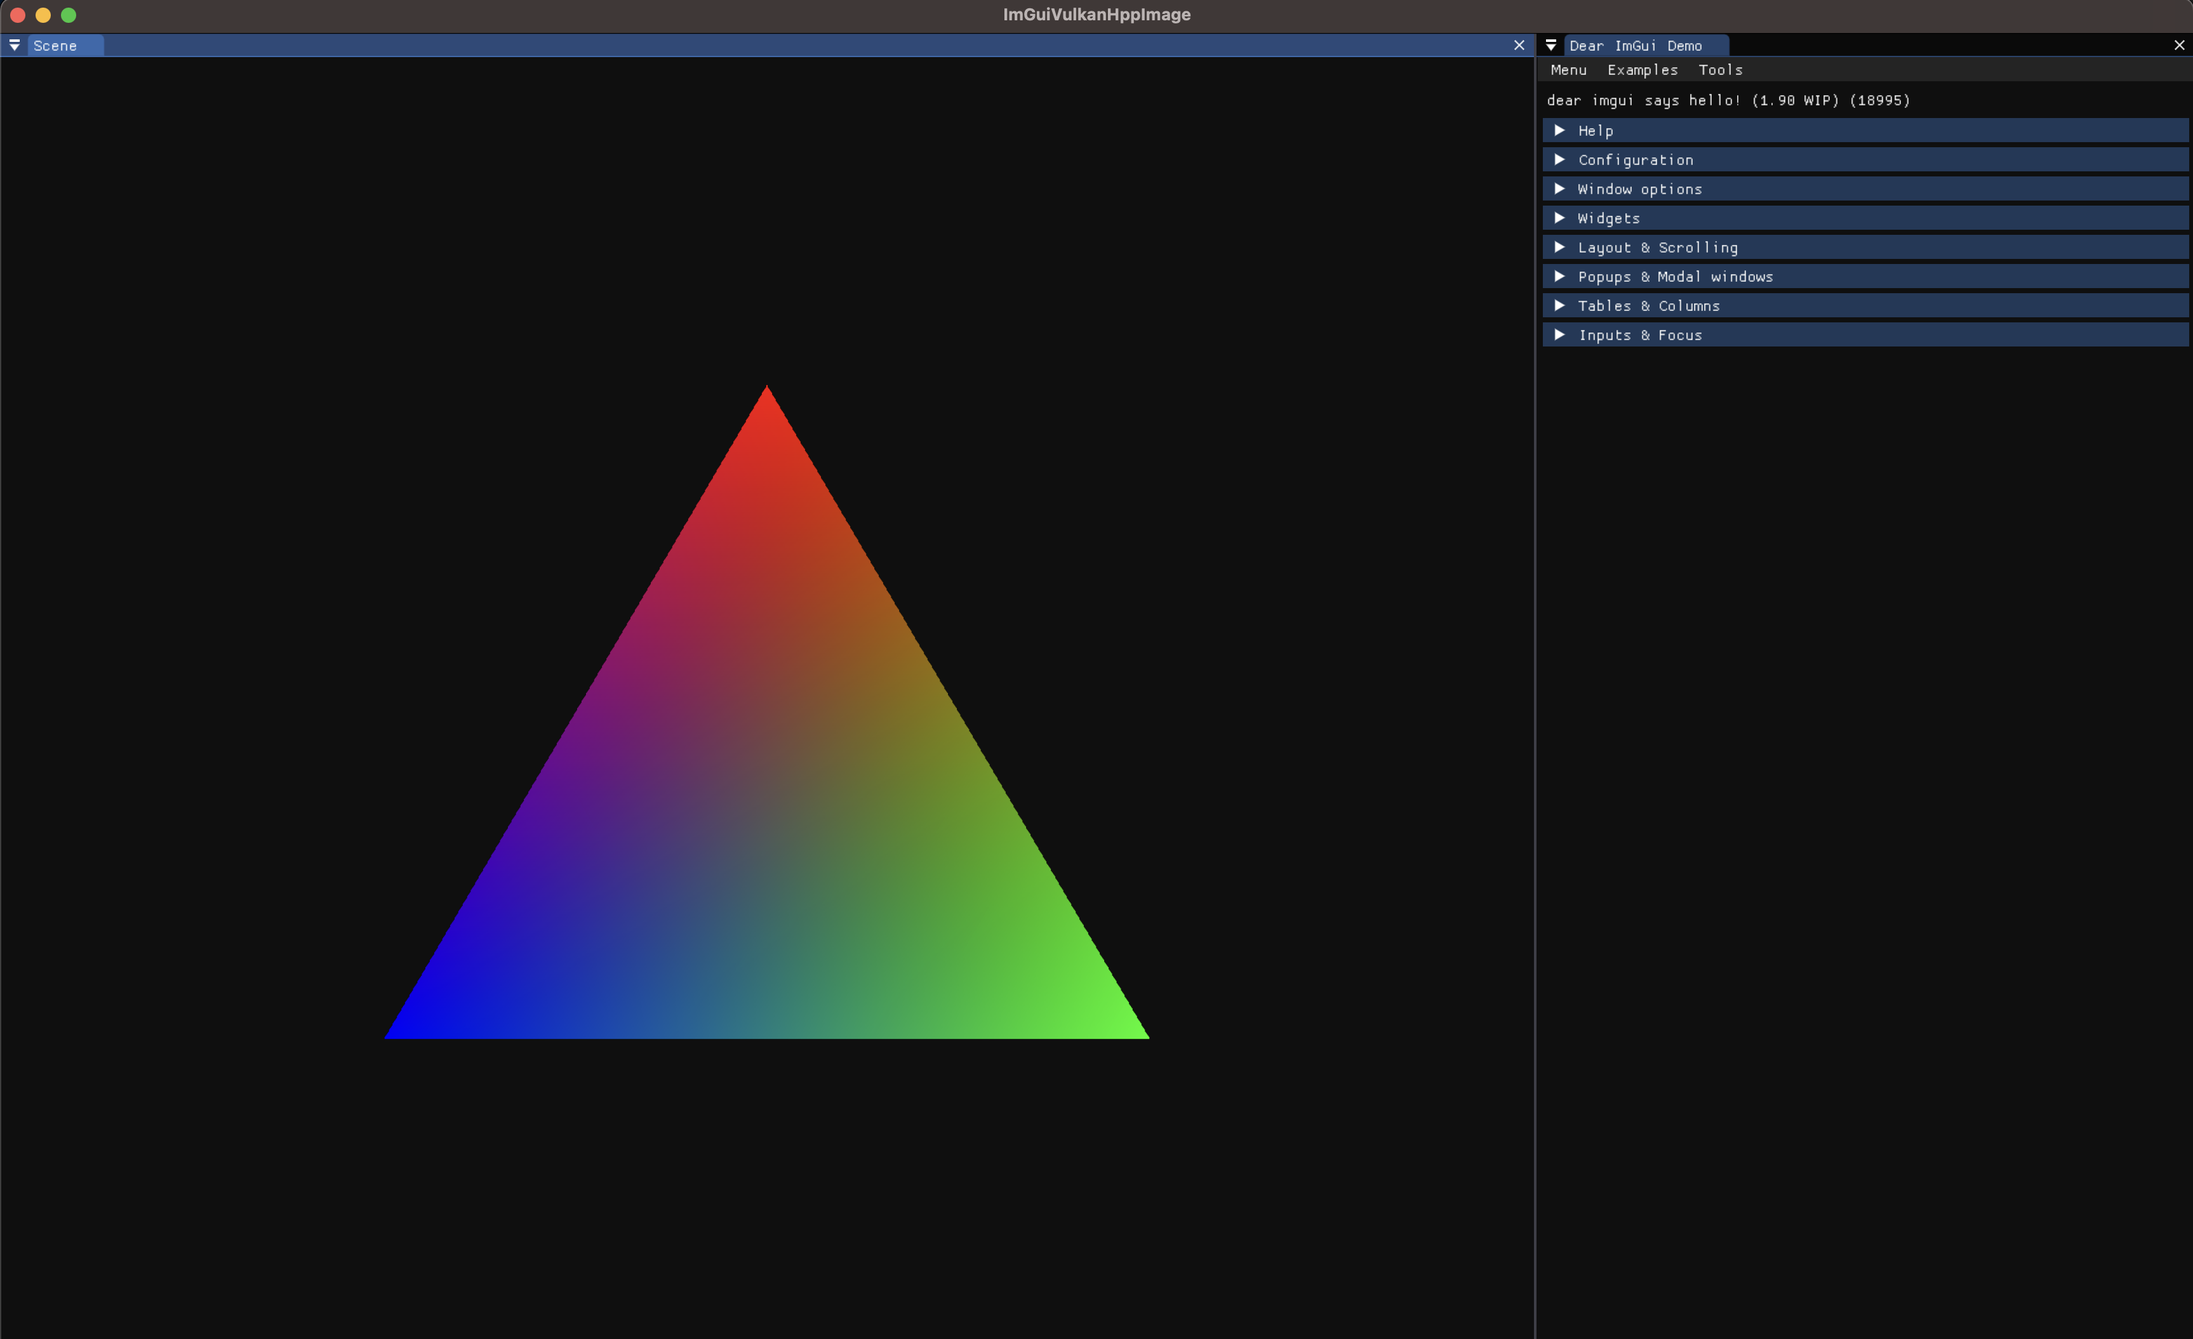
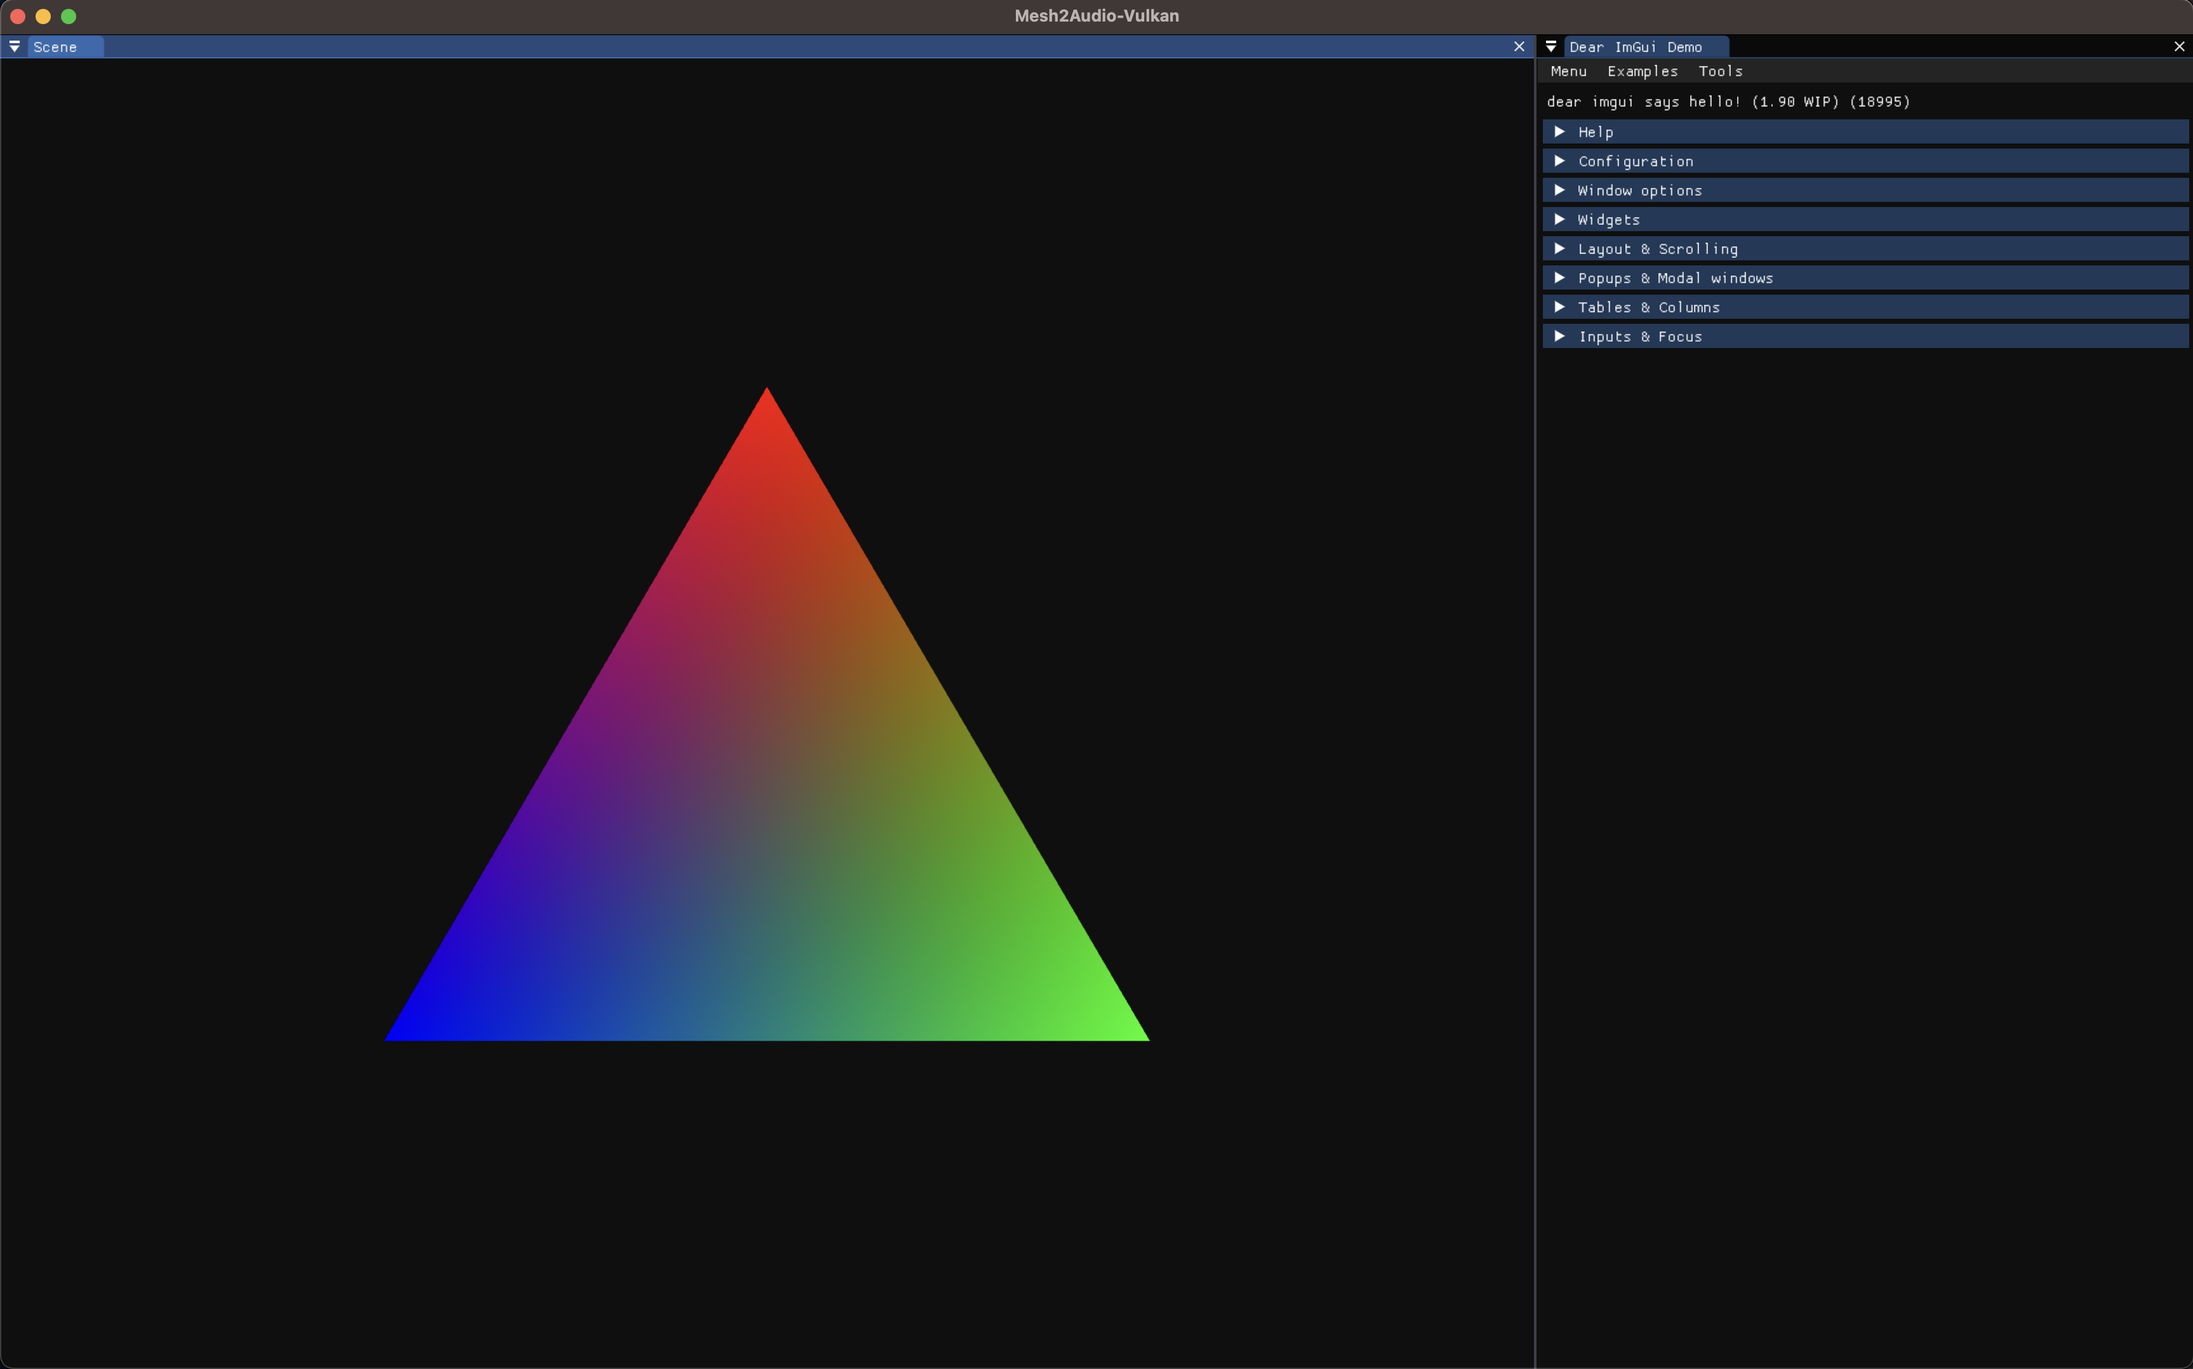
Apply MSAA to scene image.

diff --git a/src/Scene.cpp b/src/Scene.cpp
@@ -2,54 +2,67 @@
 
 #include <shaderc/shaderc.hpp>
 
+static const std::string TriangleVertShader = R"vertexshader(
+#version 450
+#extension GL_ARB_separate_shader_objects : enable
+
+out gl_PerVertex {
+    vec4 gl_Position;
+};
+
+layout(location = 0) out vec3 fragColor;
+
+vec2 positions[3] = vec2[](
+    vec2(0.0, -0.5),
+    vec2(0.5, 0.5),
+    vec2(-0.5, 0.5)
+);
+vec3 colors[3] = vec3[](
+    vec3(1.0, 0.0, 0.0),
+    vec3(0.0, 1.0, 0.0),
+    vec3(0.0, 0.0, 1.0)
+);
+
+void main() {
+    gl_Position = vec4(positions[gl_VertexIndex], 0.0, 1.0);
+    fragColor = colors[gl_VertexIndex];
+}
+)vertexshader";
+
+static const std::string TriangleFragShader = R"frag_shader(
+#version 450
+#extension GL_ARB_separate_shader_objects : enable
+
+layout(location = 0) in vec3 fragColor;
+
+layout(location = 0) out vec4 outColor;
+
+void main() {
+    outColor = vec4(fragColor, 1.0);
+}
+)frag_shader";
+
+vk::SampleCountFlagBits GetMaxUsableSampleCount(const vk::PhysicalDevice physical_device) {
+    const auto props = physical_device.getProperties();
+    const auto counts = props.limits.framebufferColorSampleCounts & props.limits.framebufferDepthSampleCounts;
+    if (counts & vk::SampleCountFlagBits::e64) return vk::SampleCountFlagBits::e64;
+    if (counts & vk::SampleCountFlagBits::e32) return vk::SampleCountFlagBits::e32;
+    if (counts & vk::SampleCountFlagBits::e16) return vk::SampleCountFlagBits::e16;
+    if (counts & vk::SampleCountFlagBits::e8) return vk::SampleCountFlagBits::e8;
+    if (counts & vk::SampleCountFlagBits::e4) return vk::SampleCountFlagBits::e4;
+    if (counts & vk::SampleCountFlagBits::e2) return vk::SampleCountFlagBits::e2;
+
+    return vk::SampleCountFlagBits::e1;
+}
+
 Scene::Scene(const VulkanContext &vc, uint width, uint height) : VC(vc) {
     TC.Extent = vk::Extent2D{width, height};
-
-    static const std::string vert_shader = R"vertexshader(
-        #version 450
-        #extension GL_ARB_separate_shader_objects : enable
-
-        out gl_PerVertex {
-            vec4 gl_Position;
-        };
-
-        layout(location = 0) out vec3 fragColor;
-
-        vec2 positions[3] = vec2[](
-            vec2(0.0, -0.5),
-            vec2(0.5, 0.5),
-            vec2(-0.5, 0.5)
-        );
-        vec3 colors[3] = vec3[](
-            vec3(1.0, 0.0, 0.0),
-            vec3(0.0, 1.0, 0.0),
-            vec3(0.0, 0.0, 1.0)
-        );
-
-        void main() {
-            gl_Position = vec4(positions[gl_VertexIndex], 0.0, 1.0);
-            fragColor = colors[gl_VertexIndex];
-        }
-        )vertexshader";
-
-    static const std::string frag_shader = R"frag_shader(
-        #version 450
-        #extension GL_ARB_separate_shader_objects : enable
-
-        layout(location = 0) in vec3 fragColor;
-
-        layout(location = 0) out vec4 outColor;
-
-        void main() {
-            outColor = vec4(fragColor, 1.0);
-        }
-        )frag_shader";
 
     shaderc::CompileOptions options;
     options.SetOptimizationLevel(shaderc_optimization_level_performance);
 
     shaderc::Compiler compiler;
-    const auto vert_shader_module = compiler.CompileGlslToSpv(vert_shader, shaderc_glsl_vertex_shader, "vertex shader", options);
+    const auto vert_shader_module = compiler.CompileGlslToSpv(TriangleVertShader, shaderc_glsl_vertex_shader, "vertex shader", options);
     if (vert_shader_module.GetCompilationStatus() != shaderc_compilation_status_success) {
         throw std::runtime_error(std::format("Failed to compile vertex shader: {}", vert_shader_module.GetErrorMessage()));
     }
@@ -58,7 +71,7 @@ Scene::Scene(const VulkanContext &vc, uint width, uint height) : VC(vc) {
     const vk::ShaderModuleCreateInfo vert_shader_info{{}, vert_size * sizeof(uint), vert_shader_code.data()};
     TC.VertexShaderModule = VC.Device->createShaderModuleUnique(vert_shader_info);
 
-    const auto frag_shader_module = compiler.CompileGlslToSpv(frag_shader, shaderc_glsl_fragment_shader, "fragment shader", options);
+    const auto frag_shader_module = compiler.CompileGlslToSpv(TriangleFragShader, shaderc_glsl_fragment_shader, "fragment shader", options);
     if (frag_shader_module.GetCompilationStatus() != shaderc_compilation_status_success) {
         throw std::runtime_error(std::format("Failed to compile fragment shader: {}", frag_shader_module.GetErrorMessage()));
     }
@@ -73,7 +86,7 @@ Scene::Scene(const VulkanContext &vc, uint width, uint height) : VC(vc) {
 
     const vk::PipelineVertexInputStateCreateInfo vertex_input_info{{}, 0u, nullptr, 0u, nullptr};
     const vk::PipelineInputAssemblyStateCreateInfo input_assemply{{}, vk::PrimitiveTopology::eTriangleList, false};
-    const vk::Viewport viewport{0.0f, 0.0f, static_cast<float>(width), static_cast<float>(height), 0.0f, 1.0f};
+    const vk::Viewport viewport{0.f, 0.f, float(width), float(height), 0.f, 1.f};
     const vk::Rect2D scissor{{0, 0}, TC.Extent};
     const vk::PipelineViewportStateCreateInfo viewport_state{{}, 1, &viewport, 1, &scissor};
 
@@ -92,10 +105,12 @@ Scene::Scene(const VulkanContext &vc, uint width, uint height) : VC(vc) {
     TC.PipelineLayout = VC.Device->createPipelineLayoutUnique({}, nullptr);
 
     const auto format = vk::Format::eB8G8R8A8Unorm;
+    // Render multisampled into the offscreen image, then resolve into a single-sampled resolve image.
+    const auto msaa_samples = GetMaxUsableSampleCount(VC.PhysicalDevice);
     const vk::AttachmentDescription color_attachment{
         {},
         format,
-        vk::SampleCountFlagBits::e1,
+        msaa_samples,
         vk::AttachmentLoadOp::eClear,
         vk::AttachmentStoreOp::eStore,
         {},
@@ -103,7 +118,32 @@ Scene::Scene(const VulkanContext &vc, uint width, uint height) : VC(vc) {
         vk::ImageLayout::eUndefined,
         vk::ImageLayout::eShaderReadOnlyOptimal};
     const vk::AttachmentReference color_attachment_ref{0, vk::ImageLayout::eColorAttachmentOptimal};
-    const vk::PipelineMultisampleStateCreateInfo multisampling{{}, vk::SampleCountFlagBits::e1, false, 1.0};
+
+    const vk::AttachmentDescription resolve_attachment{
+        {},
+        format,
+        vk::SampleCountFlagBits::e1, // Single-sampled resolve.
+        {},
+        vk::AttachmentStoreOp::eStore,
+        {},
+        {},
+        vk::ImageLayout::eColorAttachmentOptimal,
+        vk::ImageLayout::eShaderReadOnlyOptimal};
+    const vk::AttachmentReference resolve_attachment_ref{1, vk::ImageLayout::eColorAttachmentOptimal};
+
+    const vk::SubpassDescription subpass{{}, vk::PipelineBindPoint::eGraphics, 0, nullptr, 1, &color_attachment_ref, &resolve_attachment_ref};
+    const vk::SubpassDependency subpass_dependency{
+        VK_SUBPASS_EXTERNAL,
+        0,
+        vk::PipelineStageFlagBits::eColorAttachmentOutput,
+        vk::PipelineStageFlagBits::eColorAttachmentOutput,
+        {},
+        vk::AccessFlagBits::eColorAttachmentRead | vk::AccessFlagBits::eColorAttachmentWrite};
+
+    const std::array attachments{color_attachment, resolve_attachment};
+    TC.RenderPass = VC.Device->createRenderPassUnique({{}, uint(attachments.size()), attachments.data(), 1, &subpass, 1, &subpass_dependency});
+
+    const vk::PipelineMultisampleStateCreateInfo multisampling{{}, msaa_samples, false};
     const vk::PipelineColorBlendAttachmentState color_blend_attachment{
         {},
         /*srcCol*/ vk::BlendFactor::eOne,
@@ -114,43 +154,58 @@ Scene::Scene(const VulkanContext &vc, uint width, uint height) : VC(vc) {
         /*alphaBlend*/ vk::BlendOp::eAdd,
         vk::ColorComponentFlagBits::eR | vk::ColorComponentFlagBits::eG | vk::ColorComponentFlagBits::eB | vk::ColorComponentFlagBits::eA};
     const vk::PipelineColorBlendStateCreateInfo color_blending{{}, false, vk::LogicOp::eCopy, 1, &color_blend_attachment};
-    const vk::SubpassDescription subpass{{}, vk::PipelineBindPoint::eGraphics, 0, nullptr, 1, &color_attachment_ref};
-    const vk::SubpassDependency subpass_dependency{VK_SUBPASS_EXTERNAL, 0, vk::PipelineStageFlagBits::eColorAttachmentOutput, vk::PipelineStageFlagBits::eColorAttachmentOutput, {}, vk::AccessFlagBits::eColorAttachmentRead | vk::AccessFlagBits::eColorAttachmentWrite};
-    TC.RenderPass = VC.Device->createRenderPassUnique(vk::RenderPassCreateInfo{{}, 1, &color_attachment, 1, &subpass, 1, &subpass_dependency});
-
     const vk::GraphicsPipelineCreateInfo pipeline_info{{}, 2, pipeline_shader_stages.data(), &vertex_input_info, &input_assemply, nullptr, &viewport_state, &rasterizer, &multisampling, nullptr, &color_blending, nullptr, *TC.PipelineLayout, *TC.RenderPass, 0};
     TC.GraphicsPipeline = VC.Device->createGraphicsPipelineUnique({}, pipeline_info).value;
 
-    // Create an offscreen image to render the triangle into.
-    const vk::ImageCreateInfo image_info{
+    // Create an offscreen image to render the scene into.
+    const vk::ImageCreateInfo offscreen_image_info{
         {},
         vk::ImageType::e2D,
         format,
         vk::Extent3D{width, height, 1},
         1,
         1,
-        vk::SampleCountFlagBits::e1,
+        msaa_samples,
         vk::ImageTiling::eOptimal,
-        vk::ImageUsageFlagBits::eSampled | vk::ImageUsageFlagBits::eColorAttachment | vk::ImageUsageFlagBits::eTransferSrc,
-        vk::SharingMode::eExclusive,
-        0,
-        nullptr,
-        vk::ImageLayout::eUndefined};
+        vk::ImageUsageFlagBits::eSampled | vk::ImageUsageFlagBits::eColorAttachment,
+        vk::SharingMode::eExclusive};
 
-    TC.OffscreenImage = VC.Device->createImageUnique(image_info);
+    TC.OffscreenImage = VC.Device->createImageUnique(offscreen_image_info);
     const auto image_mem_reqs = VC.Device->getImageMemoryRequirements(TC.OffscreenImage.get());
     TC.OffscreenImageMemory = VC.Device->allocateMemoryUnique({image_mem_reqs.size, VC.FindMemoryType(image_mem_reqs.memoryTypeBits, vk::MemoryPropertyFlagBits::eDeviceLocal)});
     VC.Device->bindImageMemory(TC.OffscreenImage.get(), TC.OffscreenImageMemory.get(), 0);
     TC.OffscreenImageView = VC.Device->createImageViewUnique({{}, TC.OffscreenImage.get(), vk::ImageViewType::e2D, format, vk::ComponentMapping{}, vk::ImageSubresourceRange{vk::ImageAspectFlagBits::eColor, 0, 1, 0, 1}});
 
+    const vk::ImageCreateInfo resolve_image_info{
+        {},
+        vk::ImageType::e2D,
+        format,
+        vk::Extent3D{width, height, 1},
+        1,
+        1,
+        vk::SampleCountFlagBits::e1, // Single-sampled resolve image.
+        vk::ImageTiling::eOptimal,
+        vk::ImageUsageFlagBits::eSampled | vk::ImageUsageFlagBits::eColorAttachment,
+        vk::SharingMode::eExclusive};
+
+    TC.ResolveImage = VC.Device->createImageUnique(resolve_image_info);
+    const auto resolve_image_mem_reqs = VC.Device->getImageMemoryRequirements(TC.ResolveImage.get());
+    TC.ResolveImageMemory = VC.Device->allocateMemoryUnique({resolve_image_mem_reqs.size, VC.FindMemoryType(resolve_image_mem_reqs.memoryTypeBits, vk::MemoryPropertyFlagBits::eDeviceLocal)});
+    VC.Device->bindImageMemory(TC.ResolveImage.get(), TC.ResolveImageMemory.get(), 0);
+    TC.ResolveImageView = VC.Device->createImageViewUnique({{}, TC.ResolveImage.get(), vk::ImageViewType::e2D, format, vk::ComponentMapping{}, vk::ImageSubresourceRange{vk::ImageAspectFlagBits::eColor, 0, 1, 0, 1}});
+
     // Create a framebuffer using the offscreen image.
     const uint framebuffer_count = 1;
-    const vk::FramebufferCreateInfo framebuffer_info{{}, TC.RenderPass.get(), 1, &(*TC.OffscreenImageView), width, height, 1};
+    const std::array image_views{*TC.OffscreenImageView, *TC.ResolveImageView};
+    const vk::FramebufferCreateInfo framebuffer_info{{}, TC.RenderPass.get(), uint(image_views.size()), image_views.data(), width, height, 1};
     TC.Framebuffer = VC.Device->createFramebufferUnique(framebuffer_info);
     TC.CommandPool = VC.Device->createCommandPoolUnique({{}, VC.QueueFamily});
     TC.CommandBuffers = VC.Device->allocateCommandBuffersUnique({TC.CommandPool.get(), vk::CommandBufferLevel::ePrimary, framebuffer_count});
 
-    // Image layout transition to VK_IMAGE_LAYOUT_COLOR_ATTACHMENT_OPTIMAL before rendering.
+    const vk::ClearValue clear_value{};
+    const auto &command_buffer = TC.CommandBuffers[0];
+    command_buffer->begin({vk::CommandBufferUsageFlagBits::eOneTimeSubmit});
+
     const vk::ImageMemoryBarrier barrier{
         {},
         {},
@@ -158,18 +213,19 @@ Scene::Scene(const VulkanContext &vc, uint width, uint height) : VC(vc) {
         vk::ImageLayout::eColorAttachmentOptimal,
         VK_QUEUE_FAMILY_IGNORED,
         VK_QUEUE_FAMILY_IGNORED,
-        TC.OffscreenImage.get(),
+        TC.ResolveImage.get(),
         {vk::ImageAspectFlagBits::eColor, 0, 1, 0, 1},
     };
-
-    const auto &command_buffer = TC.CommandBuffers[0];
-    command_buffer->begin({vk::CommandBufferUsageFlagBits::eOneTimeSubmit});
     command_buffer->pipelineBarrier(
-        vk::PipelineStageFlagBits::eTopOfPipe, vk::PipelineStageFlagBits::eColorAttachmentOutput,
-        vk::DependencyFlags{}, 0, nullptr, 0, nullptr, 1, &barrier
+        vk::PipelineStageFlagBits::eTopOfPipe,
+        vk::PipelineStageFlagBits::eColorAttachmentOutput,
+        vk::DependencyFlags{},
+        0, nullptr, // No memory barriers.
+        0, nullptr, // No buffer memory barriers.
+        1, &barrier // 1 image memory barrier.
     );
-    vk::ClearValue clear_value{};
-    const auto render_pass_begin_info = vk::RenderPassBeginInfo{TC.RenderPass.get(), TC.Framebuffer.get(), vk::Rect2D{{0, 0}, TC.Extent}, 1, &clear_value};
+
+    const vk::RenderPassBeginInfo render_pass_begin_info{TC.RenderPass.get(), TC.Framebuffer.get(), vk::Rect2D{{0, 0}, TC.Extent}, 1, &clear_value};
     command_buffer->beginRenderPass(render_pass_begin_info, vk::SubpassContents::eInline);
     command_buffer->bindPipeline(vk::PipelineBindPoint::eGraphics, *TC.GraphicsPipeline);
     command_buffer->draw(3, 1, 0, 0);
@@ -184,9 +240,6 @@ Scene::Scene(const VulkanContext &vc, uint width, uint height) : VC(vc) {
     vk::SamplerCreateInfo sampler_info;
     sampler_info.magFilter = vk::Filter::eLinear;
     sampler_info.minFilter = vk::Filter::eLinear;
-    // sampler_info.borderColor = vk::BorderColor::eIntOpaqueBlack;
-    // sampler_info.compareOp = vk::CompareOp::eAlways;
-    // sampler_info.mipmapMode = vk::SamplerMipmapMode::eLinear;
 
     TC.TextureSampler = VC.Device->createSamplerUnique(sampler_info);
 }

diff --git a/src/Scene.h b/src/Scene.h
@@ -17,9 +17,16 @@ struct Scene {
         std::vector<vk::UniqueCommandBuffer> CommandBuffers;
 
         vk::Extent2D Extent;
+
+        // The scene is rendered to this image.
         vk::UniqueImage OffscreenImage;
         vk::UniqueImageView OffscreenImageView;
         vk::UniqueDeviceMemory OffscreenImageMemory;
+
+        // The image is resolved to this image with MSAA.
+        vk::UniqueImage ResolveImage;
+        vk::UniqueImageView ResolveImageView;
+        vk::UniqueDeviceMemory ResolveImageMemory;
 
         vk::UniqueSampler TextureSampler;
         vk::DescriptorSet DescriptorSet; // Not unique, since this is returned by `ImGui_ImplVulkan_AddTexture` as a `VkDescriptorSet`.

diff --git a/src/main.cpp b/src/main.cpp
@@ -226,7 +226,7 @@ int main(int, char **) {
     }
 
     MainScene = std::make_unique<Scene>(*VC, w, h);
-    MainScene->TC.DescriptorSet = ImGui_ImplVulkan_AddTexture(MainScene->TC.TextureSampler.get(), MainScene->TC.OffscreenImageView.get(), VK_IMAGE_LAYOUT_SHADER_READ_ONLY_OPTIMAL);
+    MainScene->TC.DescriptorSet = ImGui_ImplVulkan_AddTexture(MainScene->TC.TextureSampler.get(), MainScene->TC.ResolveImageView.get(), VK_IMAGE_LAYOUT_SHADER_READ_ONLY_OPTIMAL);
 
     ImVec4 clear_color = {0.45f, 0.55f, 0.60f, 1.f};
 

diff --git a/README.md b/README.md
@@ -1,6 +1,6 @@
 # ImGuiVulkanHppImage
 
-A demo application for rendering a triangle with Vulkan-Hpp into a docked ImGui window via `vk::Image->Texture->ImGui::Image`, using SDL3 backend.
+A demo application for rendering a triangle with Vulkan-Hpp into a docked ImGui window via `Shaders->vk::Image->MSAA->Texture->ImGui::Image`, with an SDL3 backend.
 
 ![](DemoTriangle.png)
 
@@ -12,7 +12,7 @@ A demo application for rendering a triangle with Vulkan-Hpp into a docked ImGui 
   ```
 - Download and install the latest SDK from https://vulkan.lunarg.com/sdk/home
 - Set the `VULKAN_SDK` environment variable.
-  For example, I have the following in my `.zshrc` file:
+  For example, add the following to your `.zshrc` file:
   ```shell
   export VULKAN_SDK="$HOME/VulkanSDK/{version}/macOS"
   ```
